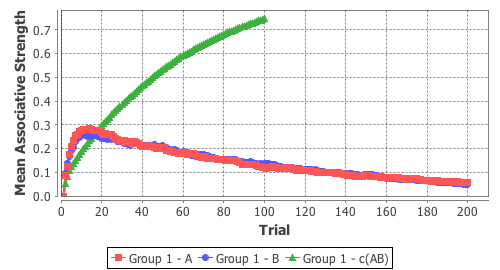
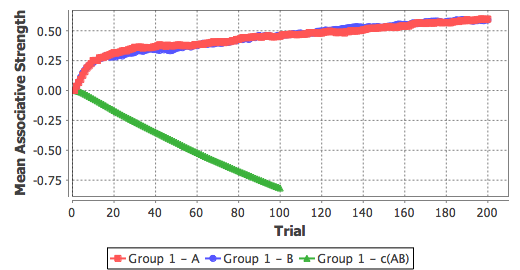
Fix example 1
R&W can actually do positive patterning, so switched example one to
negative patterning. Oops! (With thanks to Esther)

diff --git a/_includes/head.html b/_includes/head.html
@@ -37,6 +37,43 @@
 
 <!-- For all browsers -->
 <link rel="stylesheet" href="{{ site.url }}/assets/css/main.min.css">
+<style>
+/*
+Reference stuff blatantly stolen from XKCD
+*/
+.ref {
+    position: relative;
+    vertical-align: baseline;
+   }
+
+.refnum {
+    position: relative;
+    left: 2px;
+    bottom: 1ex;
+    color: #005994;
+    font-size: .7em;
+    font-weight: bold;
+    text-decoration: underline;
+    cursor: pointer;
+}
+
+.refbody {
+    font-size: .7em;
+    line-height: 1.1;
+    display: block;
+    min-width: 20em;
+    position: absolute;
+    left: 25px;
+    bottom: 5px ;
+    border: 1px solid;
+    padding: 5px;
+    background-color: #fff;
+    word-wrap: break-word;
+    z-index: 9999;
+    overflow: auto;
+}
+
+</style>
 <!-- Webfonts -->
 <script src="//use.edgefonts.net/source-sans-pro:n2,i2,n3,i3,n4,i4,n6,i6,n7,i7,n9,i9;source-code-pro:n4,n7;volkhov.js"></script>
 

diff --git a/css/main.css b/css/main.css
@@ -408,38 +408,3 @@ a:visited { color: #205caa; }
     margin: 0 0 15px; }
 
 }
-
-/*
-Reference stuff blatantly stolen from XKCD
-*/
-.ref {
-    position: relative;
-    vertical-align: baseline;
-   }
-
-.refnum {
-    position: relative;
-    left: 2px;
-    bottom: 1ex;
-    color: #005994;
-    font-size: .7em;
-    font-weight: bold;
-    text-decoration: underline;
-    cursor: pointer;
-}
-
-.refbody {
-    font-size: .7em;
-    line-height: 1.1;
-    display: block;
-    min-width: 20em;
-    position: absolute;
-    left: 25px;
-    bottom: 5px ;
-    border: 1px solid;
-    padding: 5px;
-    background-color: #fff;
-    word-wrap: break-word;
-    z-index: 9999;
-    overflow: auto;
-}

diff --git a/_posts/2014-07-24-Temporal-Difference.md b/_posts/2014-07-24-Temporal-Difference.md
@@ -11,15 +11,15 @@ Many moons ago, while I was doing a belated BSc in computer science and AI, I wa
 
 The simulator we built then, was for the [Temporal Difference model](http://www.scholarpedia.org/article/Temporal_Difference_Learning), which is actually very similar to Rescorla-Wagner, but can be applied in real time. You can, incidentally, get ahold of [that](http://cal-r.org/index.php?id=TD-sim), and the [source](https://github.com/cal-r/td) for it as well, if you're interested.  The TD algorithm was developed by [Richard Sutton](http://www.cs.ualberta.ca/~sutton/), and turns up all over the place, notably as an algorithm for training neural nets to play backgammon (almost) as well as humans. Besides that, there's also pretty good evidence that it describes the behaviour of some types of neurones.
 
-After finishing up the original simulator, we started to work on extending it, and the underlying model. One of the features we'd included in the original was the ability to use configural cues, which were a later addition to the Rescorla-Wagner model. To briefly explain what that actually means - imagine that we are Pavlov, training our dogs to dribble at the bing of a bell. (Visualise stroking your [impressive beard](http://upload.wikimedia.org/wikipedia/commons/7/7d/Ivan_Pavlov_NLM3.jpg), if that helps.)  Now, as well as the bell, we want to train the dogs to dribble when they hear the bell and see a light. In fact, they should only dribble when both of these things happen at the same time.
+After finishing up the original simulator, we started to work on extending it, and the underlying model. One of the features we'd included in the original was the ability to use configural cues, which were a later addition to the Rescorla-Wagner model. To briefly explain what that actually means - imagine that we are Pavlov, training our dogs to dribble at the bing of a bell. (Visualise stroking your [impressive beard](http://upload.wikimedia.org/wikipedia/commons/7/7d/Ivan_Pavlov_NLM3.jpg), if that helps.)  Now, as well as the bell, we want to train the dogs to dribble when they see a light, and to not dribble if both of those happen at once.
 
-Now, I know you're an experienced dribble wrangler, but let me sketch out how you achieve this. Clearly, you need to bing the bell, and flash a torch or somesuch when you feed the dog. This will associate the bell, and the light, with food and bring the drool. But, we only want the dog to slobber (let's assume we're not using [Beethoven](http://cdn.makeagif.com/media/5-26-2014/AiKytX.gif) for our experiment), when both happen, and to ignore either on their own. So, we also need to bing the bell every so often, and not feed the dog, and do the same with the light.
+Now, I know you're an experienced dribble wrangler, but let me sketch out how you achieve this. Clearly, you need to bing the bell, or flash a torch or somesuch when you feed the dog. This will associate the bell, and the light, with food and bring the drool. But, we only want the dog to slobber (let's assume we're not using [Beethoven](http://cdn.makeagif.com/media/5-26-2014/AiKytX.gif) for our experiment), when one happens alone and not if they happen together. So, we also need to perform the flash-bing manoeuvre every so often, and not feed the dog.
 
 I'll give you a moment to verify that this works on a nearby colleague, younger sibling, or willing pet.
 
 Done? Great. It works. But, neither Rescorla-Wagner, nor TD can reproduce it. 
 
-Basically, this is because the algorithm doesn't distinguish between the combination of the bing and light, and them happening separately. Configural cues solve this very simply - there are the two stimuli, and then we imagine another one that is the combination of both. This means that, given enough training, the algorithm learns to associate dinner with the combination, but not with the bell or the torch.
+Basically, this is because the algorithm doesn't distinguish between the combination of the bing and light, and them happening separately. Configural cues solve this very simply - there are the two stimuli, and then we imagine another one that is the combination of both. This means that, given enough training, the algorithm learns to associate dinner with the bell or the torch, but not with the combination.
 
 By way of a demonstration, here's two graphs. First, without configural cues:
 
@@ -53,8 +53,10 @@ We solve this, by imagining a different kind of added cue, one that represents t
 
 ![Serial configural]({{ site.url }}/images/chicken_dinner.png)
 
-A and B pretty much cancel each other out, which leaves us with A-then-B, which as you'd hope gives you a dog expecting his dinner, and B-then-A, which leads to this:
+A and B pretty much cancel each other out[^1], which leaves us with A-then-B, which as you'd hope gives you a dog expecting his dinner, and B-then-A, which leads to this:
 
 ![Ehhhhhhh](http://i.imgur.com/zuBK9DD.jpg)
 
 If that piqued your interest, you can [download the simulator](http://cal-r.org/index.php?id=SSCC_TD_sim), check out the [source](https://github.com/cal-r/sscctd), and [read the paper](http://dx.doi.org/10.1371/journal.pone.0102469).
+
+[^1]: Ok, so you don't get no association at all, but this was a quick demo and we could probably do better with tweaked parameters.
